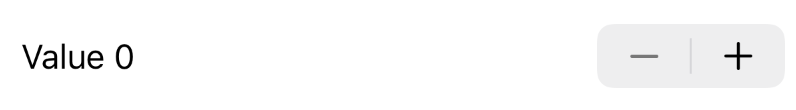
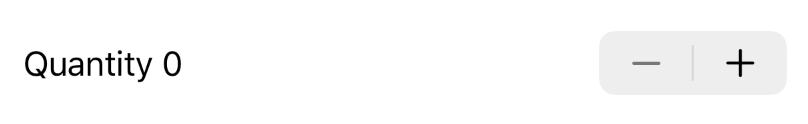
Add view layout examples

Changed region(s): [[0.0302, 0.4091, 0.2412, 0.6545], [0.8744, 0.3818, 0.9648, 0.6273], [0.7839, 0.4909, 0.8442, 0.5455]]

diff --git a/README.md b/README.md
@@ -1,6 +1,8 @@
 # swiftui-guide
 
-## Simple text field
+## Components
+
+### Simple text field
 ```swift
 struct ContentView: View {
     var body: some View {
@@ -15,7 +17,7 @@ struct ContentView: View {
 }
 ```
 
-## TextField
+### TextField
 Simple TextField with rounded border
 ```swift 
 TextField("Text placeholder", text: $text)
@@ -30,13 +32,13 @@ TextField("Text placeholder", text: $text)
             .strokeBorder(Color.blue, lineWidth: 5))
 ```
 
-## SecureField
+### SecureField
 Secured input
 ```swift 
 SecureField("Enter password", text: $password)
 ```
 
-## TextView
+### TextView
 If you need multiline text input you have to use UITextView from UIKit
 ```swift
 struct TextView: UIViewRepresentable {
@@ -93,7 +95,7 @@ struct ContentView: View {
 ```
 
 
-## Image
+### Image
 System image fits and fills frame region
 
 <img src="images/image0.fit.png" height="200">
@@ -160,7 +162,7 @@ struct ContentView: View {
 }
 ```
 
-## Button
+### Button
 
 Simple counter exmaple with Text and Button components
 ```swift
@@ -181,6 +183,9 @@ struct ContentView: View {
 ```
 
 Button with background color and round corners
+
+<img src="images/button0.png" width="300">
+
 ```swift
 Button(action:{
     self.counter += 1
@@ -194,7 +199,9 @@ Button(action:{
 .cornerRadius(10)
 ```
 
-FloatingActionButton example
+FloatingActionButton
+
+<img src="images/fab.png" width="50">
 
 ```swift
 Button(action:{
@@ -208,7 +215,7 @@ Button(action:{
 .clipShape(Circle())
 ```
 
-## Toggle
+### Toggle
 
 <img src="images/image3.png" width="300">
 
@@ -225,7 +232,7 @@ struct ContentView: View {
 }
 ```
 
-## Picker
+### Picker
 
 Static picker values
 
@@ -245,7 +252,7 @@ struct ContentView: View {
 }
 ```
 
-Static from values list.
+Static from values list
 
 ```swift
 struct ContentView: View {
@@ -263,15 +270,25 @@ struct ContentView: View {
 }
 ```
 
+To hide label use `.labelsHidden()` and `EmptyView()` in label
+
+```swift
+Picker(selection: $index, label: EmptyView()) {
+    ForEach(values, id:\.self) { value in
+        Text(value)
+    }
+}.labelsHidden()
+```
+
 You can use different styles. Default style is `WheelPickerStyle`, but another styles may be used in `.pickerStyle()`. For iOS only  `WheelPickerStyle` and `SegmentedPickerStyle` are available. 
 
 SegmentedPickerStyle
 
 <img src="images/image5.png" width="300">
 
-## DatePicker
+### DatePicker
 
-DatePicker allows to select date in range. the range can be set using dates range.
+`DatePicker` allows to select date in range. the range can be set using dates range.
 
 <img src="images/image6.png" width="300">
 
@@ -307,9 +324,12 @@ DatePicker("Date",
     )
 ```
 
-## Slider
+### Slider
 
 Slider selects values in range. By default range is 0.0...1.0 but you can change  it with `in` and `step` properties
+
+<img src="images/slider.png" width="300">
+
 ```swift
 struct ContentView: View {
     @State var progress = 0.0
@@ -322,8 +342,10 @@ struct ContentView: View {
 }
 ```
 
-## Stepper
+### Stepper
 Stepper allows increment and decrement value
+
+<img src="images/stepper.png" width="300">
 
 ```swift
 struct ContentView: View {
@@ -368,3 +390,239 @@ struct ContentView: View {
     }
 }
 ```
+
+## Layout
+
+### Stacks
+
+Use `VStack`, `HStack` and `ZStack`  to organize components vertically, horizontally or on the Z axis. Use `aligment` and `spacing` to set elements positions in the stack.
+
+```swift
+struct ContentView: View {
+    var body: some View {
+        VStack(alignment: .center) {
+            HStack(alignment: .top, spacing: 0) {
+                Text("Text 1")
+                Text("Text 2")
+            }
+            Text("Text 3")
+            Image(systemName: "cloud.sun.fill")
+                .resizable()
+                .aspectRatio(contentMode: .fill)
+                .foregroundColor(.red)
+                .frame(width: 300, height: 300, alignment: .center)
+                .border(Color.black,width: 5)
+        }
+    }
+}
+```
+
+### Spacer
+`Spacer` expands all available space along the major axis of parent stack.
+
+```swift
+HStack {
+    Text("Hello")
+    Spacer()
+    Text("world")
+}
+```
+
+### Divider
+UI component which separates UI elements
+
+```swift
+VStack {
+    Text("Hello")
+    Divider()
+    Text("world")
+}
+```
+
+### Group
+Groups UI components
+
+```swift
+Group {
+    Text("Hello world")
+    Image(systemName: "cloud.sun.fill")
+}
+```
+### ListList of elements arranged in a single column
+
+```swift
+List {
+    Text("Item 1")
+    Button(action:{}) {
+            Text ("Item 2")
+        }.padding()
+}
+```
+`List` from range
+
+<img src="images/list0.png" width="300">
+
+```swift
+List (1..<20) { index in
+    Text("Item \(index)")
+}
+```
+
+`List` from strings list
+
+```swift
+struct ContentView: View {
+    let list = ["1", "2", "3"]
+    var body: some View {
+        List(list) { item in
+            Text(item)
+        }
+    }
+}
+```
+
+To use complex objects you need to set some field as `id`
+
+<img src="images/list1.png" width="300">
+
+```swift
+struct Icon {
+    let id = UUID()
+    var name:String
+}
+
+struct ContentView: View {
+    let icons = [
+        Icon(name: "cloud.sun.fill"),
+        Icon(name: "cloud.sun.rain.fill"),
+        Icon(name: "cloud.sun.bolt.fill")
+    ]
+    var body: some View {
+        List(icons, id:\.id) { icon in
+            HStack {
+                Image(systemName: icon.name)
+                Text(icon.name)
+            }
+        }
+    }
+}
+```
+
+### ForEach
+Use `ForEach` to create list of views in a loop. It seems `List` but may be used more flexibly.
+
+<img src="images/foreach.png" width="300">
+
+```swift
+struct Icon {
+    let id = UUID()
+    var name:String
+}
+
+struct ContentView: View {
+    let icons = [
+        Icon(name: "cloud.sun.fill"),
+        Icon(name: "cloud.sun.rain.fill"),
+        Icon(name: "cloud.sun.bolt.fill")
+    ]
+    var body: some View {
+        VStack {
+            ForEach(icons, id:\.id) { icon in
+                HStack {
+                    Image(systemName: icon.name)
+                    Text(icon.name)
+                }
+                .frame(maxWidth: .infinity, alignment: .center)
+            }
+        }
+    }
+}
+```
+
+## ScrollView
+
+Scrollable view
+
+<img src="images/scrollview0.png" width="300">
+
+```swift
+var body: some View {
+        ScrollView {
+            VStack {
+                ForEach(1..<50){ index in
+                    Text("\(index)")
+                        .padding()
+                        .frame(width: 100, height: 50, alignment: .center)
+                        .border(Color.black,width: 5)
+                }
+            }
+            ScrollView(.horizontal, showsIndicators: false) {
+                HStack {
+                    ForEach(1..<50){ index in
+                        Text("\(index)")
+                            .padding()
+                            .frame(width: 80, height: 80, alignment: .center)
+                            .border(Color.black,width: 5)
+                    }
+                }
+            }
+        }
+    }
+```
+
+### Form
+
+Container which groups components for data entry. For example settings, user forms, etc.
+
+<img src="images/form.png" width="300">
+
+```swift
+struct ContentView: View {
+    @State var email = ""
+    @State var address = ""
+    
+    var body: some View {
+        Form {
+            Section(header: Text("header").font(.caption), footer: Text("footer").font(.caption)) {
+                TextField("email", text:$email)
+                TextField("address", text:$address)
+            }
+        }
+    }
+}
+```
+
+### TabView
+Allows switch between views
+
+<img src="images/tabbar.png" width="300">
+
+```swift
+struct ContentView: View {
+    var body: some View {
+        TabView {
+            VStack{Image("SalvadorDali")
+                .resizable()
+                .aspectRatio(contentMode: .fill)
+                .frame(width: 300, height: 300, alignment: .center)
+                .clipShape(Circle())
+                .overlay(Circle().stroke(Color.white, lineWidth: 5))
+                .shadow(radius: 10)}
+                .tabItem({
+                    Image(systemName: "star")
+                    Text("First tab")
+                })
+                .tag(0)
+            List(1..<30) { index in
+                Text("Item \(index)")
+            }
+            .tabItem({
+                Image(systemName: "star.fill")
+                Text("Second tab")
+            })
+                .tag(0)
+        }
+    }
+}
+```
+
